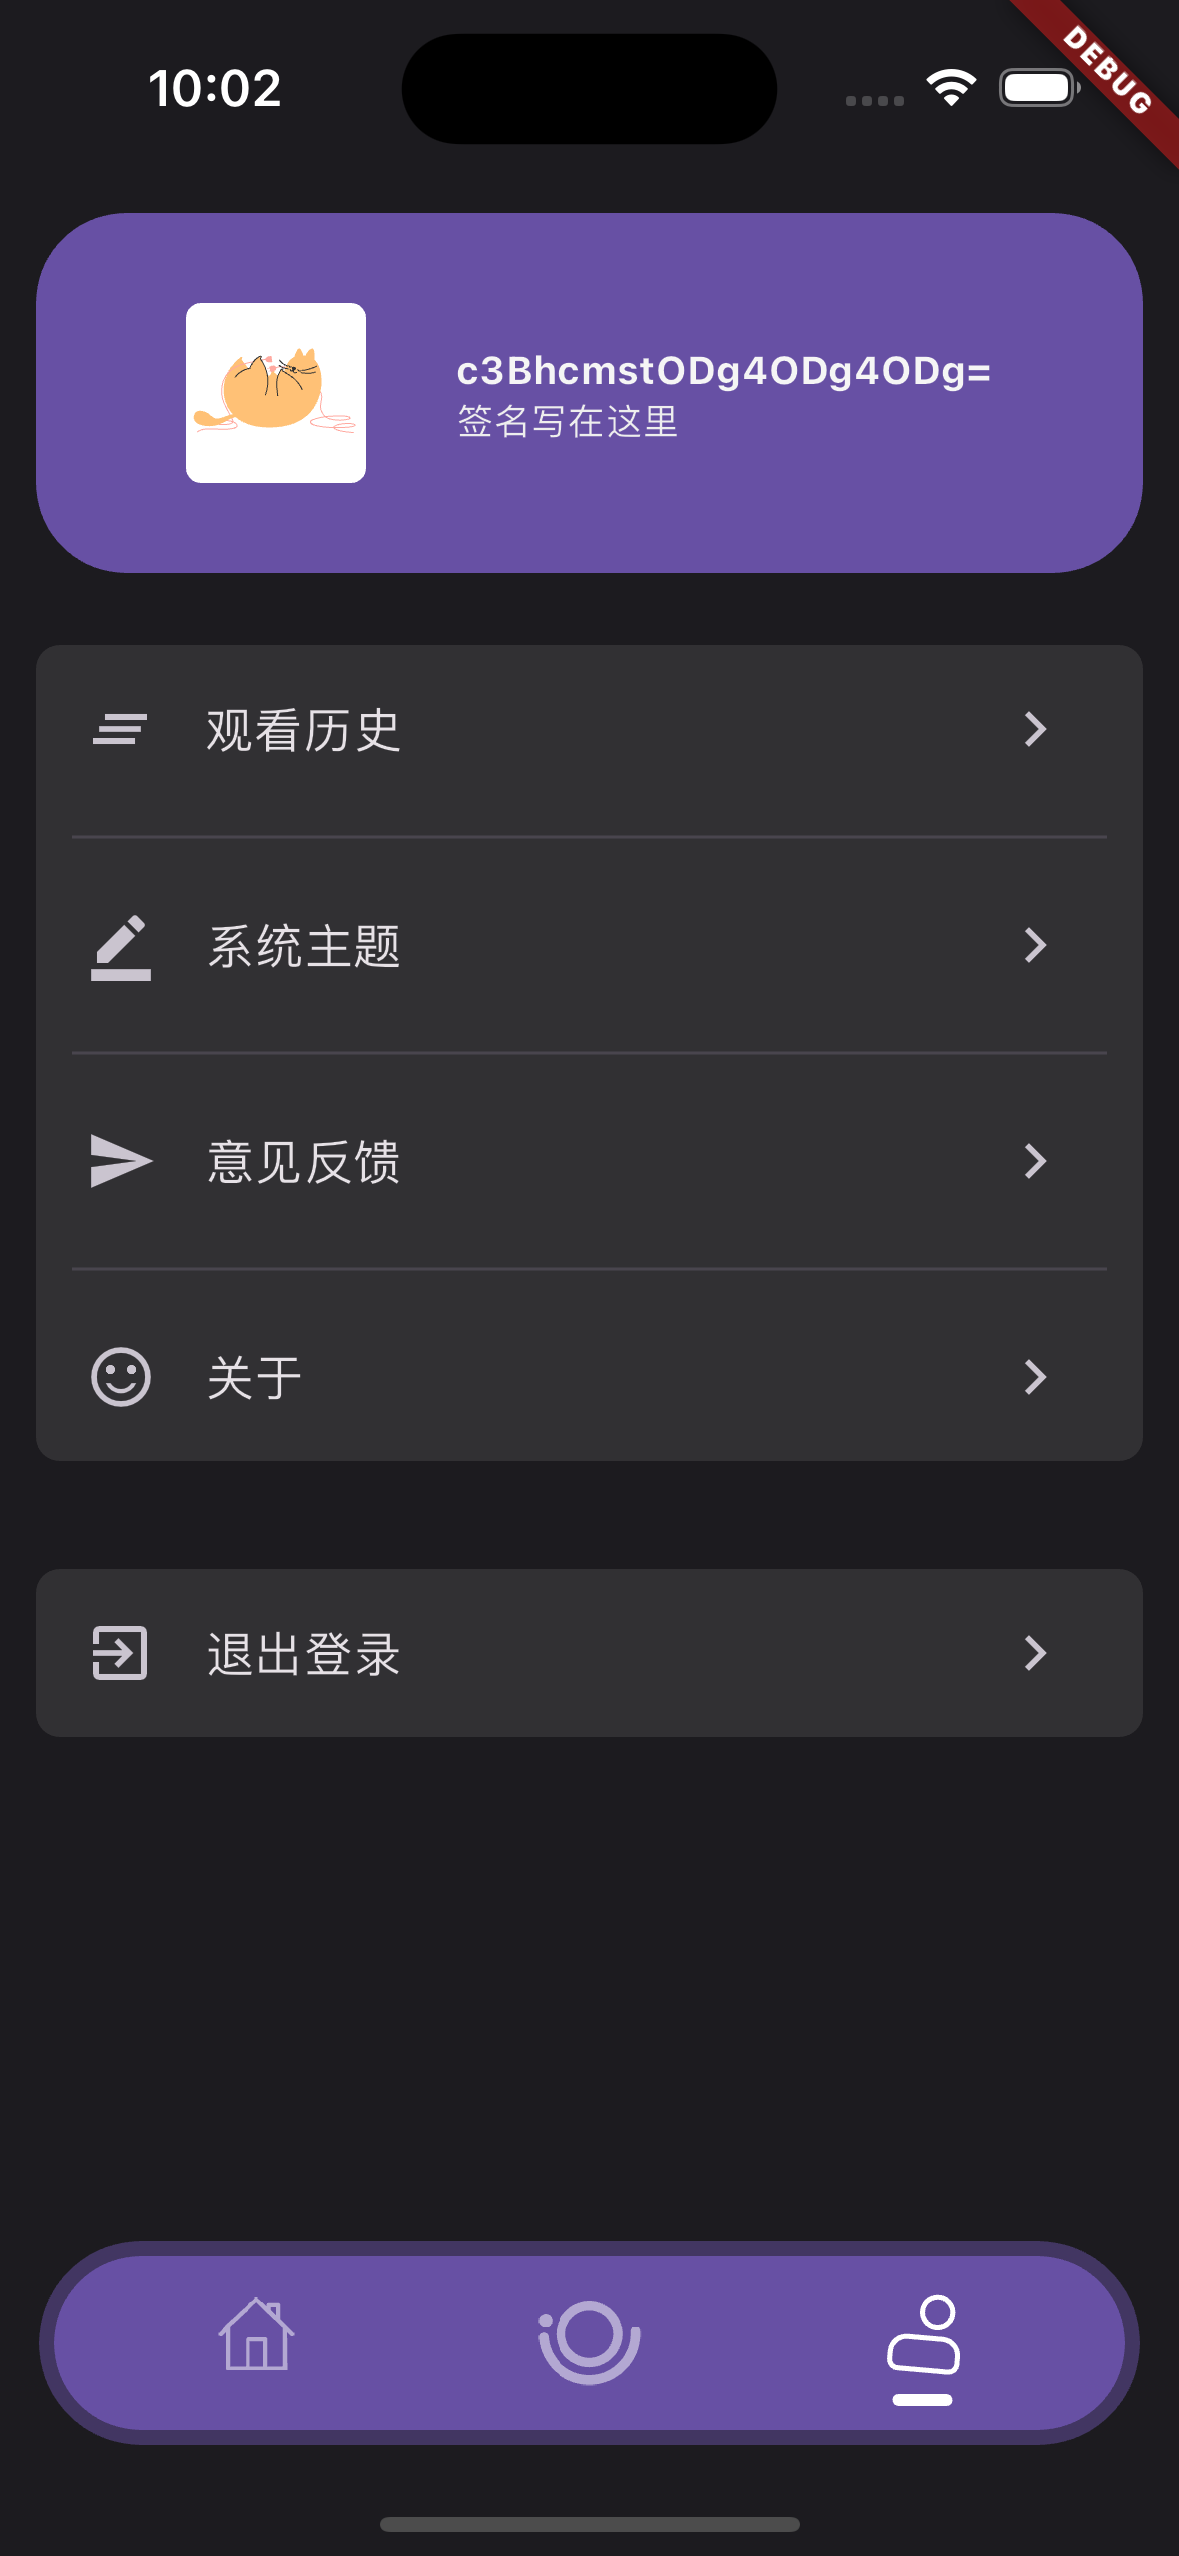
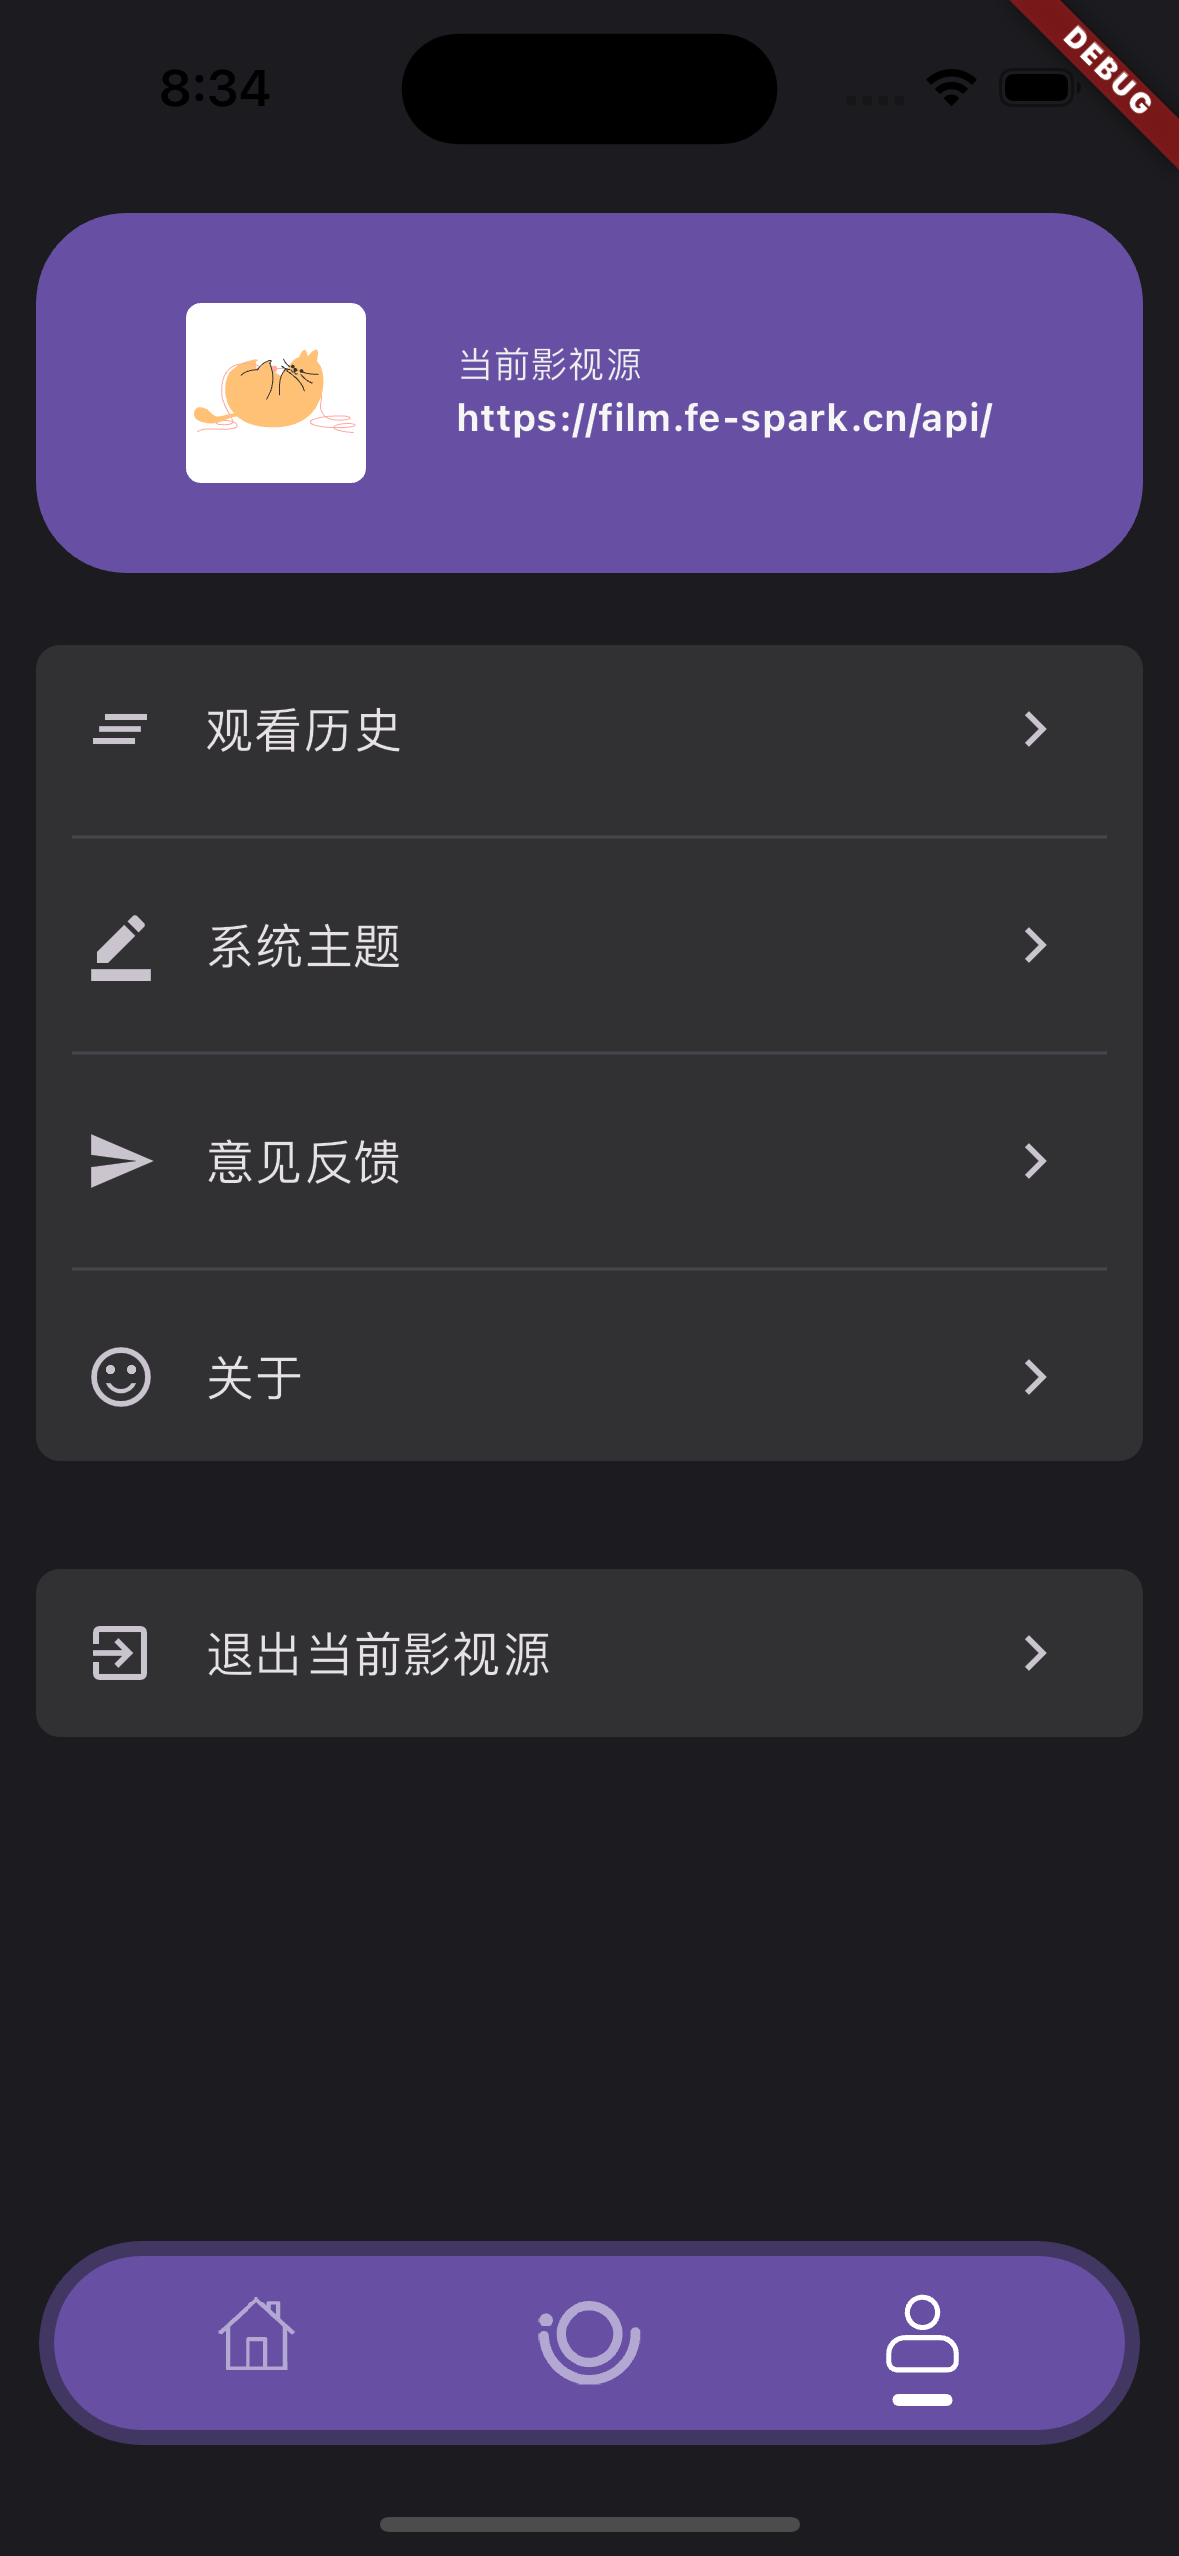
Update readme

diff --git a/lib/views/home/tabs/user_center.dart b/lib/views/home/tabs/user_center.dart
@@ -106,6 +106,14 @@ class _UserCenterTabState extends State<UserCenterTab>
                                   // mainAxisAlignment: MainAxisAlignment.start,
                                   crossAxisAlignment: CrossAxisAlignment.start,
                                   children: [
+                                    Text(
+                                      '当前影视源',
+                                      style: Theme.of(context)
+                                          .textTheme
+                                          .bodySmall
+                                          ?.copyWith(color: Colors.grey[200]),
+                                      overflow: TextOverflow.ellipsis,
+                                    ),
                                     FittedBox(
                                       child: Text(
                                         videoSourceStore.data?.actived ?? '',
@@ -119,14 +127,6 @@ class _UserCenterTabState extends State<UserCenterTab>
                                         overflow: TextOverflow.ellipsis,
                                         softWrap: false,
                                       ),
-                                    ),
-                                    Text(
-                                      '当前影视源',
-                                      style: Theme.of(context)
-                                          .textTheme
-                                          .bodySmall
-                                          ?.copyWith(color: Colors.grey[200]),
-                                      overflow: TextOverflow.ellipsis,
                                     ),
                                   ],
                                 ),

diff --git a/lib/route.dart b/lib/route.dart
@@ -1,6 +1,6 @@
 import '/plugins.dart';
 import '/views/home/index.dart';
-import '/views/login.dart';
+import 'views/source.dart';
 import '/views/splash.dart';
 import '/views/unknown.dart';
 import 'views/theme/index.dart';
@@ -22,7 +22,7 @@ class MYRouter {
   static String homePagePath = '/';
   static String splashPagePath = '/splash_page';
   static String detailPagePath = '/detail_page';
-  static String loginPagePath = '/login_page';
+  static String sourcePagePath = '/source_page';
   static String aboutPagePath = '/about_page';
   static String feedbackPagePath = '/feedback_page';
   static String unknownPagePath = '/unknown_page';
@@ -30,7 +30,6 @@ class MYRouter {
   static String themePagePath = '/theme_page';
   static String historyPagePath = '/history_page';
   static String filterPagePath = '/filter_page';
-  static String testPagePath = '/test_page';
 
   static String get initialRoute => homePagePath;
 
@@ -44,7 +43,7 @@ class MYRouter {
       builder: (_, {arguments}) => const SplashPage(),
     ),
     //登录
-    loginPagePath: SparkRoute(
+    sourcePagePath: SparkRoute(
       noAuth: false,
       builder: (_, {arguments}) => const LoginPage(),
     ),
@@ -97,7 +96,7 @@ class MYRouter {
 
         if (routeData?.noAuth != true) {
           if (videoSourceStore.data?.actived == null) {
-            builder = routeTables[loginPagePath]?.builder;
+            builder = routeTables[sourcePagePath]?.builder;
           }
         }
 

diff --git a/lib/views/source.dart b/lib/views/source.dart
@@ -29,7 +29,7 @@ class _LoginPageState extends State<LoginPage> {
   Widget build(BuildContext context) {
     return Scaffold(
       appBar: AppBar(
-        title: const Text('登陆'),
+        title: const Text('Bracket'),
       ),
       body: SafeArea(
         child: SizedBox(

diff --git a/README.md b/README.md
@@ -7,7 +7,7 @@ style="margin-right: 10px" src="https://img.shields.io/badge/fvm-v2.4.1-yellow">
 
 ## Film data source
 
-本项目通过[GoFilm](https://github.com/ProudMuBai/GoFilm)接入数据，如有条件可自行部署云端服务(项目中含有多种部署方案),部署后自行修改[`/lib/service/http_util.dart`](https://github.com/sparksworld/bracket/blob/feature/player/lib/service/http_util.dart)文件中的[`options.baseUrl`](https://github.com/sparksworld/bracket/blob/feature/player/lib/service/http_util.dart#L13)进行接入。
+本项目通过[GoFilm](https://github.com/ProudMuBai/GoFilm)接入数据，如有条件可自行部署云端服务(项目中含有多种部署方案)
 
 [网页版观影地址](https://film.fe-spark.cn/)
 
@@ -39,8 +39,8 @@ flutter build apk
 
 ## Matters needing attention
 
-> 关于账号密码问题
-> 请在项目源码中获取，没有做后台鉴权，之后版本考虑废弃登陆
+> 关于影视源问题
+> 提供官方源`https://film.fe-spark.cn/api/`(末尾一定要带`/`),如部署好[GoFilm](https://github.com/ProudMuBai/GoFilm)可以自行修改成自己的源
 
 ## Write at the end
 
